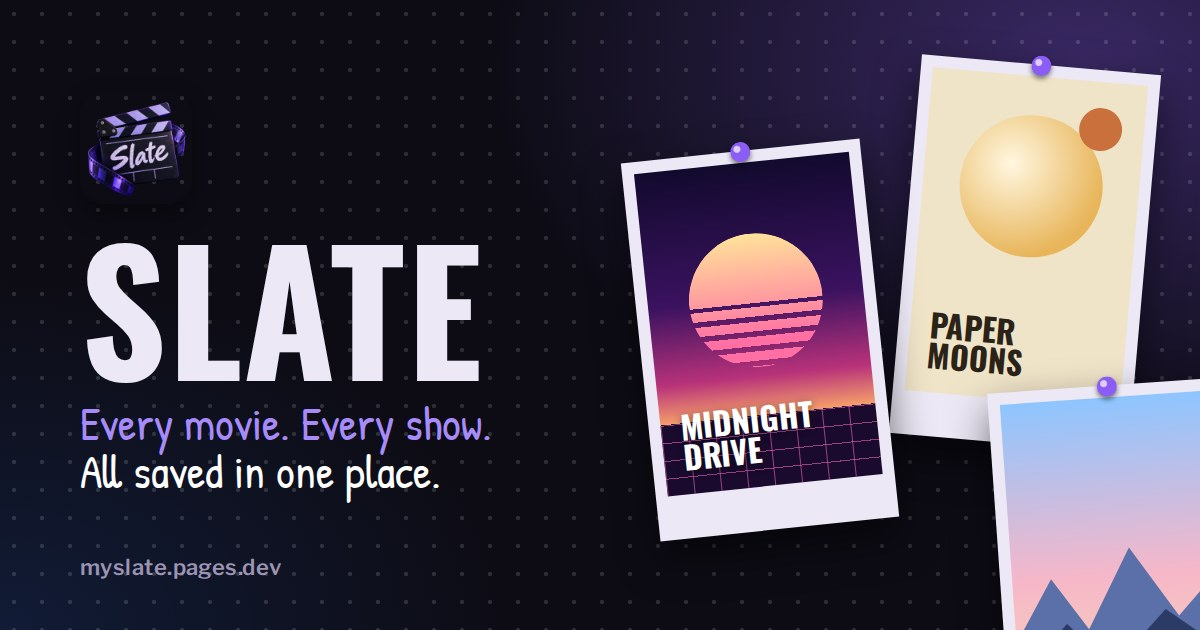
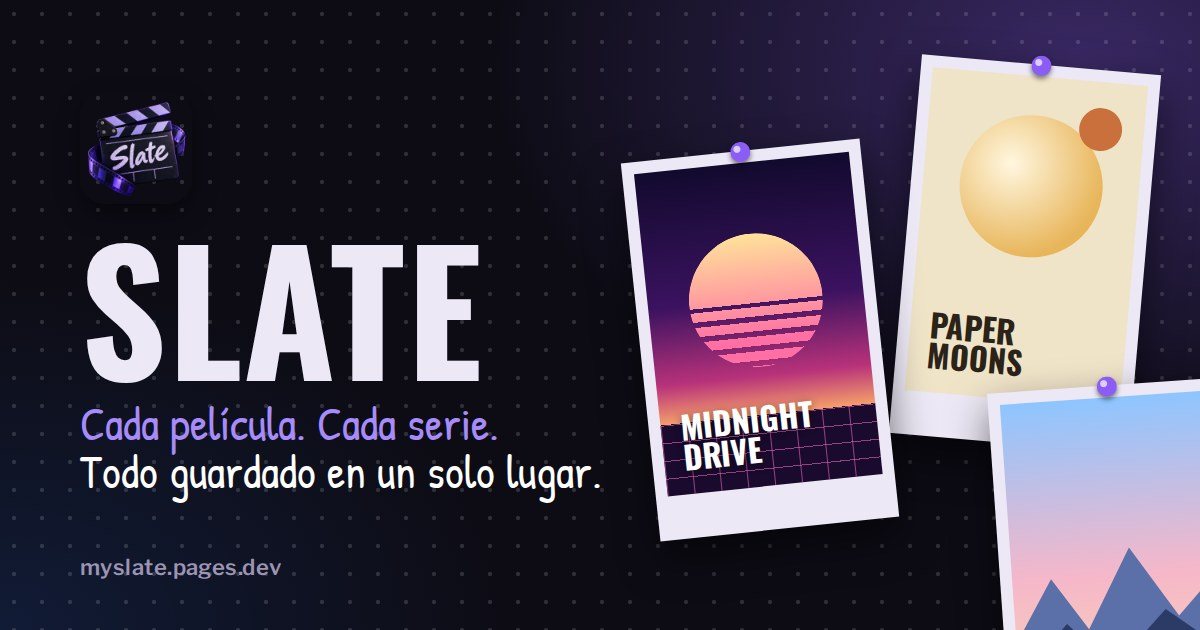
Put the link preview image in Spanish, Slate's main language now
The owner's decision: Slate is for the Spanish-speaking community, with
English still available. The image says "Cada película. Cada serie.
Todo guardado en un solo lugar."

Claude-Session: https://claude.ai/code/session_01AzhhiVQBiTrrrSfEEmwmSL

Changed region(s): [[0.0617, 0.6333, 0.4933, 0.8143]]

diff --git a/CLAUDE.md b/CLAUDE.md
@@ -229,6 +229,14 @@ directly.
      owner: the watched date for IMDb (it only has the date rated), films
      Letterboxd has as watched but not in the diary, titles already in
      Slate, and where shows go.
+- **Spanish is Slate's main language** (the owner's decision, Sept. 30,
+  2026: Slate is for the Spanish-speaking community). English stays
+  available. The repo keeps its convention (code, comments and source
+  strings in English; Spanish is their translation in `js/lang/es.js`);
+  what changes is what people see first. Done: the share image. Proposed,
+  waiting for the owner: Spanish as the default when nothing was picked
+  on the device (today the browser's language, else English), and the
+  search / share title and description in Spanish.
 - Translation is done, and Slate is published (below). **Slate launches in
   English and Spanish only** (the owner's decision); German and Italian are out for
   now, and adding a language later only takes its dictionary.
@@ -690,9 +698,9 @@ directly.
   image (mockups: https://claude.ai/artifact/QT5HUTEm1GHPfqTvwYaCr7, A
   the board with pinned posters, B a taped note with an "Invite-only"
   stamp, C a cinema ticket; English / Spanish). The owner picked A;
-  done as `img/share.jpg` (1200×630, 82 KB, in English: they didn't
-  say, and English is the site's default and today's title; Spanish
-  if they ask), rendered from the mockup with Playwright;
+  done as `img/share.jpg` (1200×630, 84 KB, in Spanish, after the
+  owner's decision below), rendered from the mockup with Playwright
+  (fonts from Google Fonts through the proxy);
   2 the code (absolute og:image, og:url, twitter card, canonical,
   WebSite JSON-LD for the site name, privacy.html's tags, robots.txt,
   sitemap.xml, X-Robots-Tag noindex on tests/, tools/, supabase/,
